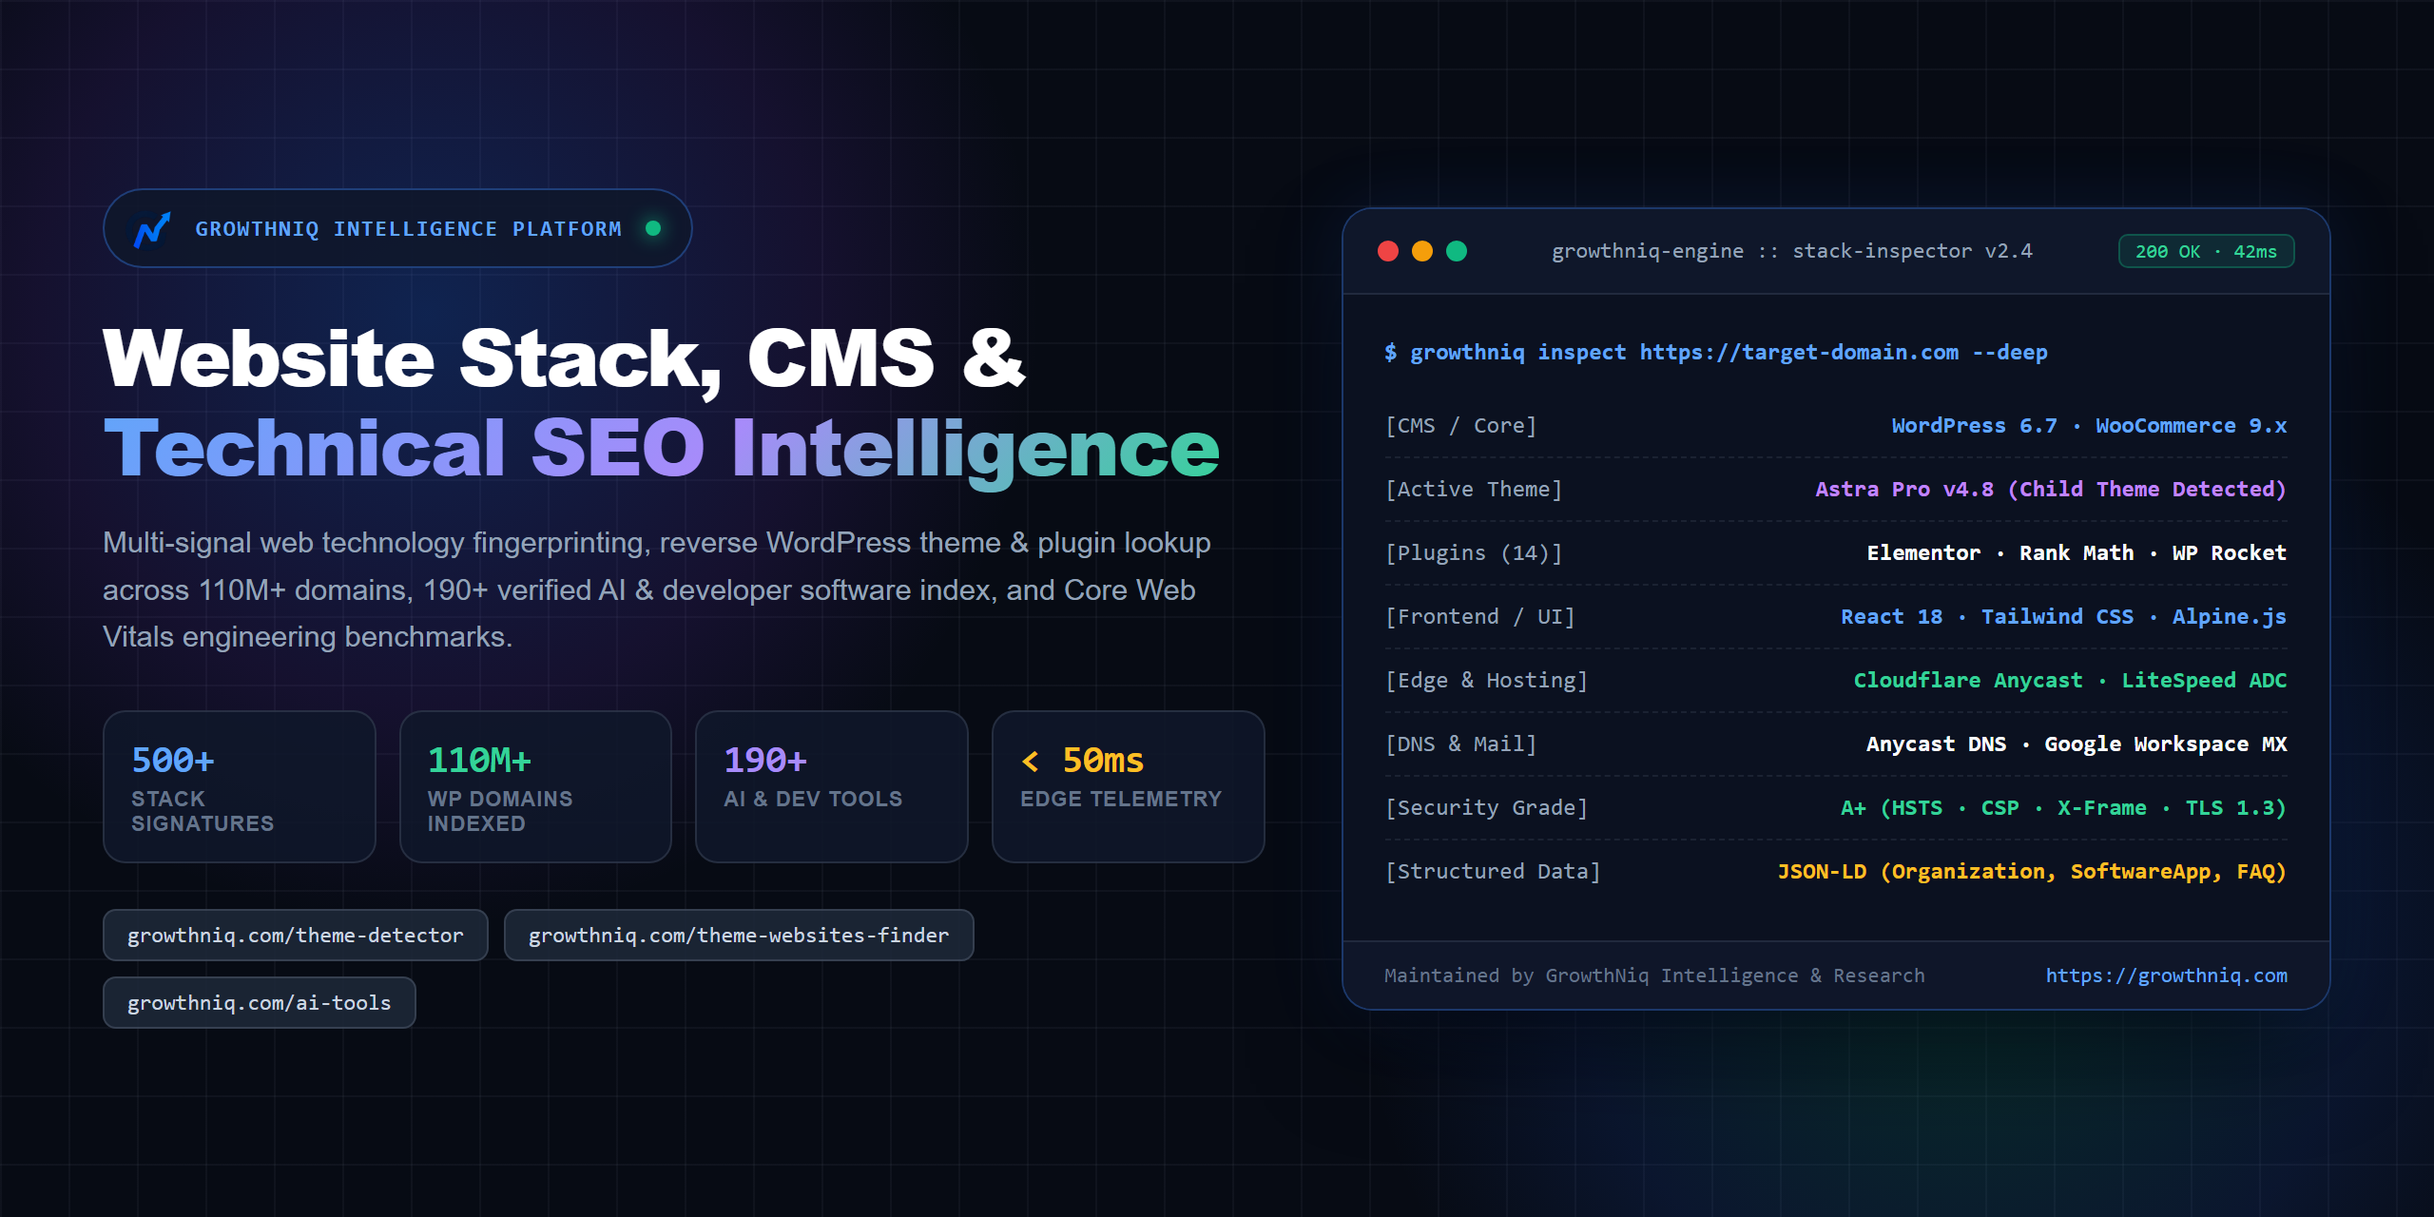
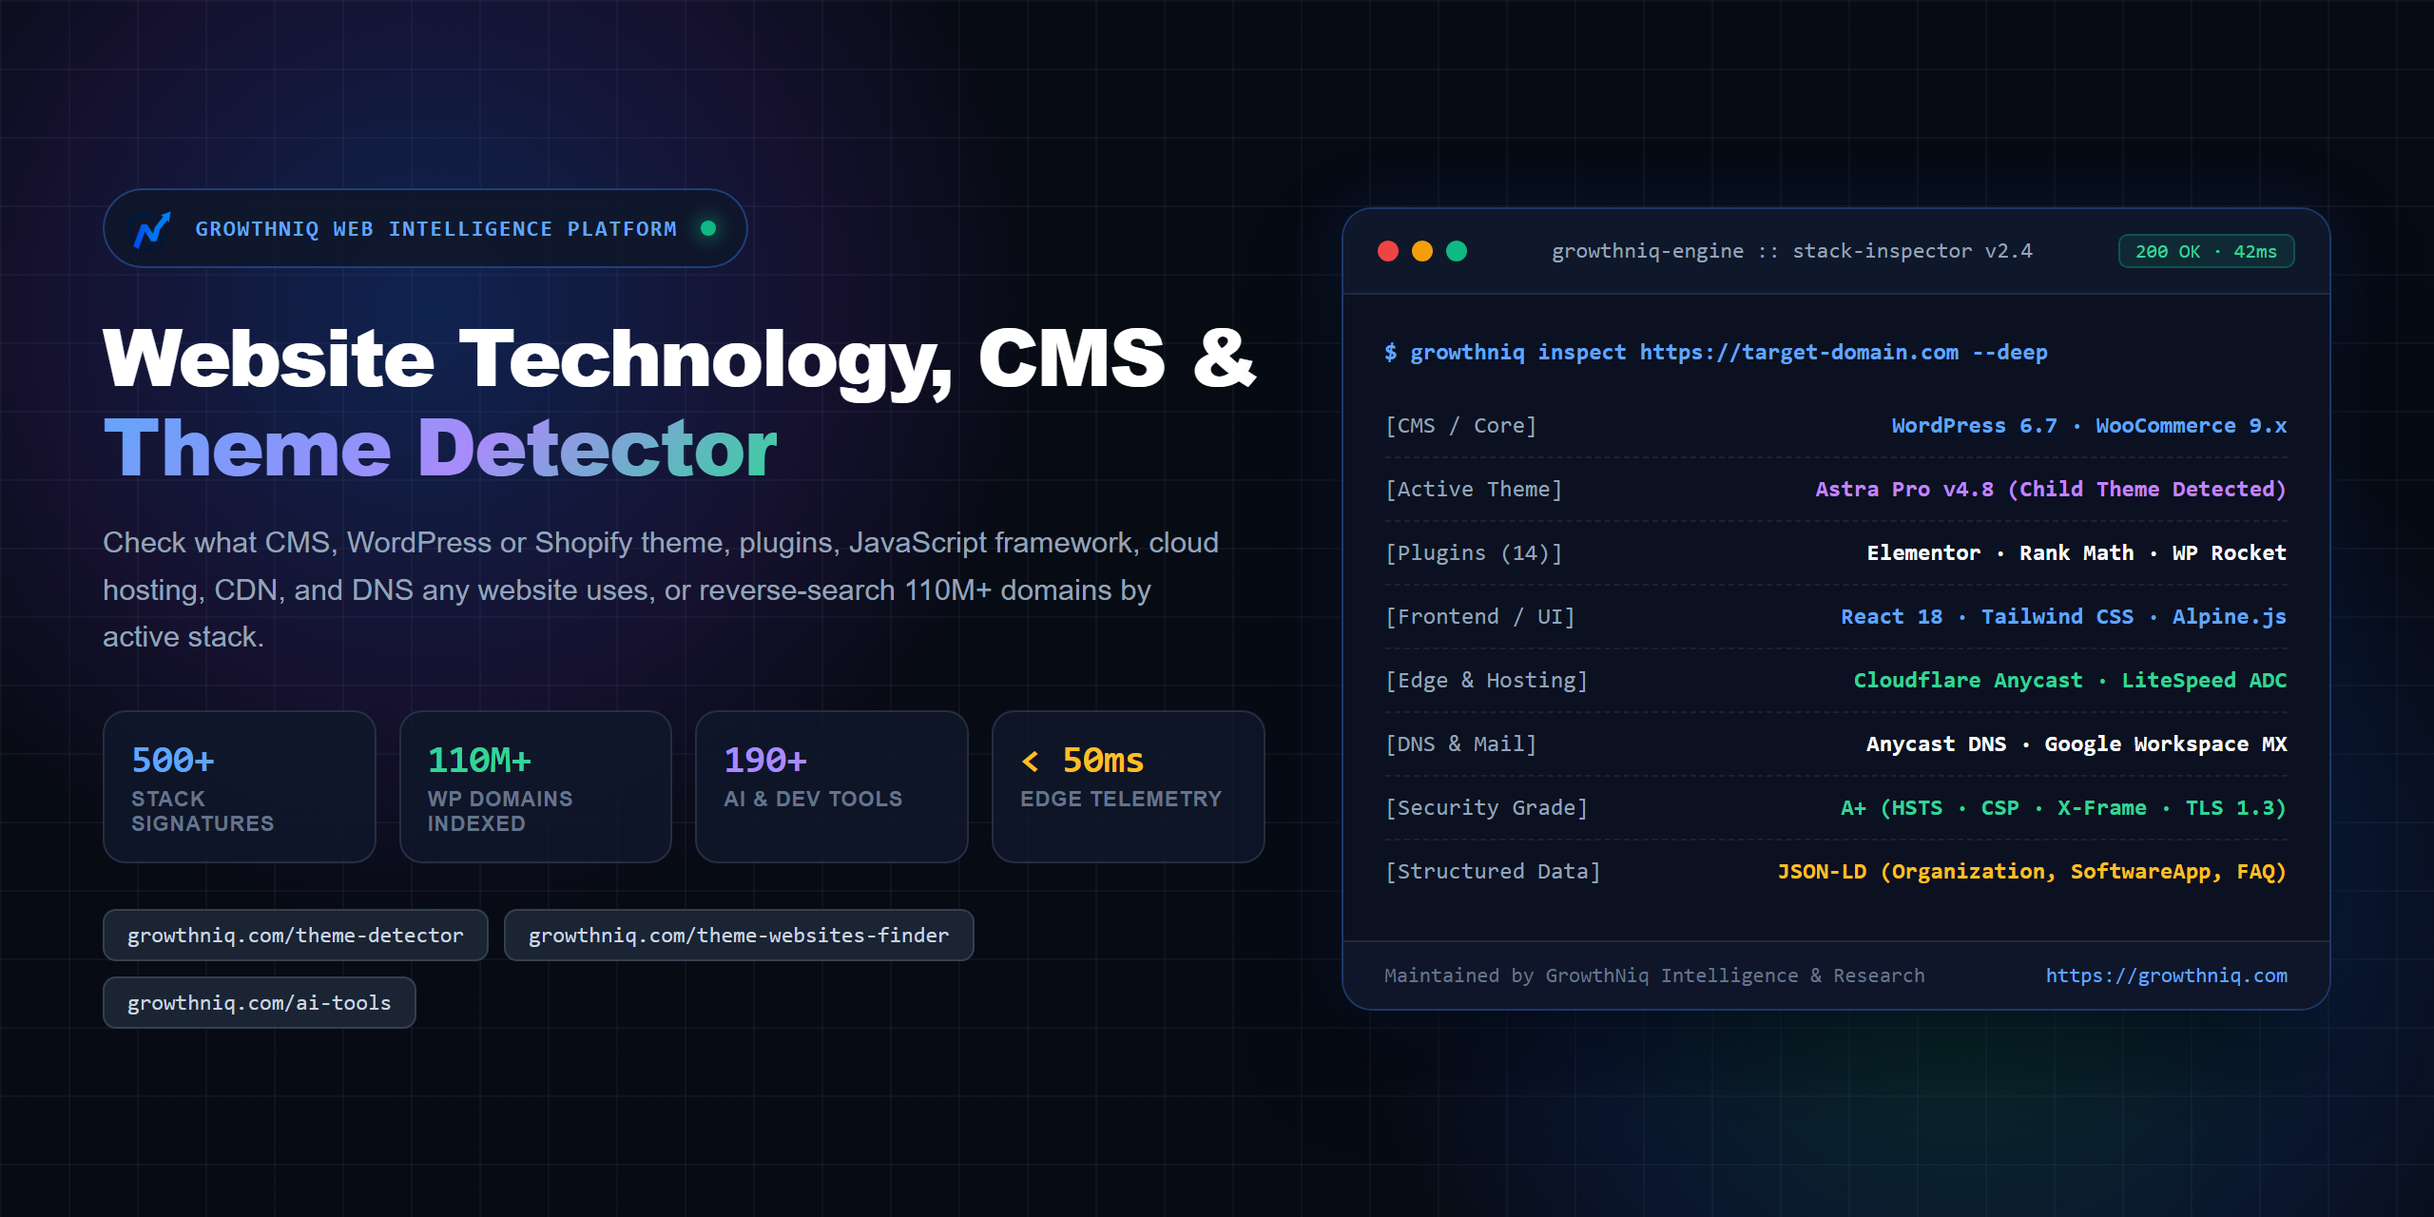
Rename to website-technology-detector and optimize for high-volume stack inspection queries

diff --git a/README.md b/README.md
@@ -1,47 +1,60 @@
 <p align="center">
-  <a href="https://growthniq.com/">
-    <img src="assets/growthniq-banner.png" alt="GrowthNiq - Website Theme, CMS & Technology Intelligence Platform" width="100%">
+  <a href="https://growthniq.com/theme-detector/">
+    <img src="assets/growthniq-banner.png" alt="Website Technology, CMS & Theme Detector - GrowthNiq Web Intelligence Platform" width="100%">
   </a>
 </p>
 
-<h1 align="center">GrowthNiq Web Stack Intelligence, WordPress Detector &amp; Technical SEO Suite</h1>
+<h1 align="center">Website Technology Detector, CMS &amp; Theme Checker &amp; Reverse Stack Lookup</h1>
 
 <p align="center">
-  <b>Multi-Signal Website Technology Fingerprinting · 110M+ WordPress Domain Index · 190+ Verified AI &amp; Dev Tools · Core Web Vitals Benchmarks</b><br>
+  <b>Check What CMS, WordPress or Shopify Theme, Plugins, JS Framework, Hosting, CDN &amp; DNS Any Website Uses · 110M+ Reverse Domain Index · 190+ AI Tools</b><br>
   <sub>Maintained by <a href="https://growthniq.com/about/">GrowthNiq Intelligence &amp; Research</a> · Lead Architect: <a href="https://muhammadabid.com/">Muhammad Abid</a> (<a href="https://github.com/V3n0mSh3ll">@V3n0mSh3ll</a>)</sub>
 </p>
 
 <p align="center">
-  <a href="https://growthniq.com/"><img src="https://img.shields.io/badge/Platform-GrowthNiq.com-2563EB?style=flat-square&logo=googlechrome&logoColor=white" alt="GrowthNiq Platform"></a>
+  <a href="https://growthniq.com/theme-detector/"><img src="https://img.shields.io/badge/Live_Scanner-Website_Technology_Detector-2563EB?style=flat-square&logo=googlechrome&logoColor=white" alt="Website Technology Detector"></a>
   <a href="https://growthniq.com/theme-detector/"><img src="https://img.shields.io/badge/Stack_Signatures-500%2B-00C853?style=flat-square&logo=wordpress&logoColor=white" alt="500+ Stack Signatures"></a>
-  <a href="https://growthniq.com/theme-websites-finder/"><img src="https://img.shields.io/badge/WP_Domain_Index-110M%2B-7C3AED?style=flat-square&logo=databricks&logoColor=white" alt="110M+ WP Domains Indexed"></a>
-  <a href="https://growthniq.com/ai-tools/"><img src="https://img.shields.io/badge/AI_%26_Dev_Directory-190%2B_Tools-0EA5E9?style=flat-square&logo=openai&logoColor=white" alt="190+ AI Tools"></a>
+  <a href="https://growthniq.com/theme-websites-finder/"><img src="https://img.shields.io/badge/Reverse_Lookup-110M%2B_WP_Domains-7C3AED?style=flat-square&logo=databricks&logoColor=white" alt="110M+ WP Domains Indexed"></a>
+  <a href="https://growthniq.com/ai-tools/"><img src="https://img.shields.io/badge/AI_%26_MCP_Directory-190%2B_Tools-0EA5E9?style=flat-square&logo=openai&logoColor=white" alt="190+ AI Tools"></a>
   <a href="https://growthniq.com/blog/"><img src="https://img.shields.io/badge/Core_Web_Vitals-LCP_%C2%B7_INP_%C2%B7_CLS-10B981?style=flat-square&logo=pagespeedinsights&logoColor=white" alt="Core Web Vitals"></a>
-  <a href="https://growthniq.com/schema-markup-explained/"><img src="https://img.shields.io/badge/Schema.org-JSON--LD_%40graph-F59E0B?style=flat-square&logo=json&logoColor=white" alt="Schema.org JSON-LD"></a>
   <a href="LICENSE"><img src="https://img.shields.io/badge/License-MIT-EAB308?style=flat-square" alt="MIT License"></a>
 </p>
 
 <p align="center">
-  <a href="https://growthniq.com/theme-detector/"><b>Live Stack &amp; CMS Detector</b></a> ·
-  <a href="https://growthniq.com/theme-websites-finder/"><b>110M+ WP Theme &amp; Plugin Finder</b></a> ·
-  <a href="https://growthniq.com/ai-tools/"><b>190+ AI Tools Directory</b></a> ·
-  <a href="https://growthniq.com/tools/"><b>All Web Utilities</b></a> ·
-  <a href="https://growthniq.com/blog/"><b>Engineering Research &amp; Guides</b></a>
+  <a href="https://growthniq.com/theme-detector/"><b>Website Technology &amp; CMS Detector</b></a> ·
+  <a href="https://growthniq.com/theme-websites-finder/"><b>Websites by WP Theme &amp; Plugin Finder</b></a> ·
+  <a href="https://growthniq.com/ai-tools/"><b>190+ AI Tools &amp; MCP Directory</b></a> ·
+  <a href="https://growthniq.com/tools/"><b>All Web Intelligence Tools</b></a> ·
+  <a href="https://growthniq.com/blog/"><b>Engineering Guides</b></a>
 </p>
 
 ---
 
-## Overview
+## What Is This Repository?
 
-**GrowthNiq** ([growthniq.com](https://growthniq.com/)) is a web technology intelligence platform, reverse WordPress domain lookup index, and technical SEO engineering reference.
+**`website-technology-detector`** is the official open-reference architecture, signature specification, and technical documentation suite for **[GrowthNiq](https://growthniq.com/)** — a real-time **Website Technology Detector, CMS Checker, WordPress &amp; Shopify Theme Detector, Reverse Domain Lookup Engine (110M+ Websites), and Verified AI Tools Directory**.
 
-Instead of relying on single-header guesses, GrowthNiq inspects live web properties across **6 telemetry layers**: DNS and ASN resolution, HTTP response and security headers, DOM and script bundle signatures, WordPress `style.css` parent/child theme heuristics, reverse domain market-share correlation, and Schema.org JSON-LD structured data graphs.
+Whether you want to check **what technology a website is built with**, inspect **what WordPress theme and plugins a site is using**, identify a **Shopify theme and installed apps**, find **who hosts a website**, or search **millions of live websites using a specific theme or plugin**, GrowthNiq executes multi-signal inspection in under 50ms with zero registration required.
 
 <p align="center">
   <a href="https://growthniq.com/tools/">
-    <img src="assets/platform-modules.png" alt="GrowthNiq Core Web Intelligence and Directory Modules" width="100%">
+    <img src="assets/platform-modules.png" alt="GrowthNiq Website Technology Detector, Reverse WP Domain Finder, and AI Tools Directory" width="100%">
   </a>
 </p>
+
+---
+
+## High-Intent Stack Inspection Use Cases
+
+| What You Want to Check | Live GrowthNiq Tool | What Gets Detected |
+| :--- | :--- | :--- |
+| **What technology is a website built with?** | **[Website Tech Stack Detector](https://growthniq.com/theme-detector/)** | 500+ signatures across CMS, JS frameworks (Next.js, React, Vue, Nuxt, Astro), server software, analytics, and payment gateways |
+| **What CMS is this website using?** | **[Website CMS Detector](https://growthniq.com/theme-detector/)** | WordPress, Shopify, Laravel, Magento, Adobe Experience Manager, Webflow, Wix, Squarespace, Drupal, Ghost, Django, Rails, ASP.NET |
+| **What WordPress theme &amp; plugins is that site using?** | **[WordPress Theme &amp; Plugin Detector](https://growthniq.com/theme-detector/)** | Active parent theme, custom child theme, version number, author URI, marketplace link, and active frontend/REST plugins |
+| **What Shopify theme &amp; apps is a store running?** | **[Shopify Theme &amp; App Detector](https://growthniq.com/theme-detector/)** | `Shopify.theme` name, Theme Store ID, OS 2.0 schema version, and installed storefront apps |
+| **Find websites using a WordPress theme or plugin** | **[Websites by WP Theme &amp; Plugin Finder](https://growthniq.com/theme-websites-finder/)** | Reverse-lookup 110M+ WordPress domains using Astra, Avada, Divi, GeneratePress, Elementor, WooCommerce, Rank Math, with CSV export |
+| **Who hosts this website &amp; what CDN/DNS is active?** | **[Hosting, CDN &amp; DNS Lookup](https://growthniq.com/theme-detector/)** | Cloud host, Anycast CDN edge (Cloudflare, Fastly, CloudFront, Vercel), LiteSpeed cache status, DNS nameservers, and MX email provider |
+| **Compare AI coding agents, LLMs &amp; MCP servers** | **[190+ AI Tools &amp; MCP Directory](https://growthniq.com/ai-tools/)** | 190+ verified AI tools, foundation models, coding IDEs (Cursor, Claude Code, Windsurf), MCP servers, and cloud GPU providers |
 
 ---
 
@@ -52,25 +65,25 @@ Instead of relying on single-header guesses, GrowthNiq inspects live web propert
 <td width="50%" valign="top">
 
 ### 1. [Website Theme, CMS &amp; Technology Detector](https://growthniq.com/theme-detector/)
-Deep real-time inspection engine that uncovers the complete technology stack behind any live URL in under 50ms:
+Browser-based alternative to Wappalyzer, BuiltWith, and WhatsThatTheme that inspects any live URL in real time:
 - **CMS &amp; Core Platform Detection**: WordPress, Shopify, Laravel, Magento, Adobe Experience Manager, Webflow, Wix, Squarespace, Drupal, Ghost, Django, Ruby on Rails, and ASP.NET.
 - **WordPress &amp; Shopify Theme Fingerprinting**: Detects active parent themes, custom child themes, version numbers, author URIs, and ThemeForest/WordPress.org marketplace metadata.
 - **Plugin &amp; App Detection**: Identifies active WordPress plugins, Shopify apps, e-commerce modules, and frontend script bundles.
-- **Infrastructure &amp; Security Telemetry**: Maps web hosting providers, Anycast CDN edges, DNS nameservers, MX email gateways, TTFB latency, HTTP security header grades (`HSTS`, `CSP`, `X-Frame-Options`), and JSON-LD `@graph` entities.
+- **Hosting, CDN, DNS &amp; Security Grade**: Maps cloud hosting providers, CDN edges, DNS nameservers, MX email gateways, TTFB latency, HTTP security header grades (`HSTS`, `CSP`, `X-Frame-Options`), and JSON-LD `@graph` entities.
 
-**Launch Tool**: [https://growthniq.com/theme-detector/](https://growthniq.com/theme-detector/)
+**Launch Detector**: [https://growthniq.com/theme-detector/](https://growthniq.com/theme-detector/)
 
 </td>
 <td width="50%" valign="top">
 
 ### 2. [Websites by WordPress Theme &amp; Plugin Finder](https://growthniq.com/theme-websites-finder/)
 Reverse technology search engine indexing **110M+ WordPress domains** by active theme or plugin signature:
-- **Reverse Keyword &amp; Marketplace Lookup**: Search any WordPress theme or plugin (e.g., *Astra*, *Avada*, *Divi*, *GeneratePress*, *Hello Elementor*, *Elementor*, *WooCommerce*, *Rank Math*, *WP Rocket*).
+- **Reverse Keyword &amp; Marketplace Lookup**: Search any WordPress theme or plugin (*Astra*, *Avada*, *Divi*, *GeneratePress*, *Hello Elementor*, *Elementor*, *WooCommerce*, *Rank Math*, *WP Rocket*).
 - **Direct URL Extraction**: Paste any ThemeForest or WordPress.org theme/plugin URL to inspect live production deployments.
 - **Market Telemetry &amp; Adoption Metrics**: View verified active website counts, historical download telemetry, star ratings, and official license links.
 - **Instant CSV Dataset Export**: Download verified live domain lists for competitive market research and stack benchmarking.
 
-**Launch Tool**: [https://growthniq.com/theme-websites-finder/](https://growthniq.com/theme-websites-finder/)
+**Launch Reverse Finder**: [https://growthniq.com/theme-websites-finder/](https://growthniq.com/theme-websites-finder/)
 
 </td>
 </tr>
@@ -84,7 +97,7 @@ Curated software intelligence directory tracking **190+ verified AI platforms** 
 - **MCP Servers &amp; Agent Frameworks**: Model Context Protocol (MCP) integrations, LangChain, LlamaIndex, CrewAI, AutoGen, and vector databases.
 - **SEO, Research &amp; Content Systems**: Verified pricing models, API availability, context window telemetry, and side-by-side capability ratings.
 
-**Explore Directory**: [https://growthniq.com/ai-tools/](https://growthniq.com/ai-tools/)
+**Explore AI Directory**: [https://growthniq.com/ai-tools/](https://growthniq.com/ai-tools/)
 
 </td>
 <td width="50%" valign="top">
@@ -95,7 +108,7 @@ Centralized command hub for web stack inspection, software discovery, and engine
 - **[Suggest a Tool or Signature](https://growthniq.com/suggest-a-tool/)**: Submit new CMS signatures, WordPress plugins, or AI developer platforms for engineering verification.
 - **[HTML Sitemap &amp; Architecture Index](https://growthniq.com/sitemap/)**: Complete hierarchical index of all tools, category hubs, and technical documentation.
 
-**Open Hub**: [https://growthniq.com/tools/](https://growthniq.com/tools/)
+**Open Intelligence Hub**: [https://growthniq.com/tools/](https://growthniq.com/tools/)
 
 </td>
 </tr>
@@ -149,7 +162,7 @@ Text Domain:  astra-child
 ```
 
 - When the `Template:` directive is present, GrowthNiq resolves both the active **Child Theme** (`astra-child`) and the underlying **Parent Framework** (`astra`) by probing `/wp-content/themes/{Template}/style.css`.
-- For deeper manual and automated detection techniques, read: **[How to Check What WordPress Theme and Plugins a Website Is Using](https://growthniq.com/how-to-detect-wordpress-theme-and-plugins/)**.
+- Read the complete technical breakdown: **[How to Check What WordPress Theme and Plugins a Website Is Using](https://growthniq.com/how-to-detect-wordpress-theme-and-plugins/)**.
 
 ### 2. High-Signal HTTP &amp; DOM Stack Signatures
 
@@ -199,50 +212,18 @@ Full production audit checklist available in [`checklists/technical-seo-cwv-chec
 | **CLS** (Cumulative Layout Shift) | `<= 0.10` | **`0.000`** | Explicit `width`/`height` attributes, CSS `aspect-ratio` containers, metric-matched webfont fallbacks | [INP &amp; CLS Optimization Guide](https://growthniq.com/inp-cls-guide/) |
 | **JSON-LD Entity Graph** | Valid Syntax | **Linked `@graph`** | Connected `Organization`, `WebSite`, `SoftwareApplication`, `TechArticle`, `FAQPage`, `BreadcrumbList` | [Schema Markup Explained](https://growthniq.com/schema-markup-explained/) |
 
-### Production JSON-LD `@graph` Blueprint
-
-```json
-{
-  "@context": "https://schema.org",
-  "@graph": [
-    {
-      "@type": "Organization",
-      "@id": "https://growthniq.com/#organization",
-      "name": "GrowthNiq",
-      "url": "https://growthniq.com/",
-      "founder": {
-        "@type": "Person",
-        "name": "Muhammad Abid",
-        "url": "https://muhammadabid.com/"
-      }
-    },
-    {
-      "@type": "WebApplication",
-      "@id": "https://growthniq.com/theme-detector/#app",
-      "name": "GrowthNiq Website Theme, CMS & Technology Detector",
-      "url": "https://growthniq.com/theme-detector/",
-      "applicationCategory": "DeveloperApplication",
-      "operatingSystem": "All",
-      "publisher": {
-        "@id": "https://growthniq.com/#organization"
-      }
-    }
-  ]
-}
-```
-
 ---
 
-## Complete Engineering Guides &amp; Technical SEO Research Index
+## Complete Engineering Guides &amp; Technical Research Index
 
 All guides are published and maintained by the engineering and editorial team at **[GrowthNiq Blog](https://growthniq.com/blog/)**:
 
-### 1. Technical SEO, Stack Inspection &amp; Core Web Vitals
+### 1. Stack Detection, Technical SEO &amp; Core Web Vitals
 
 | Technical Guide | Core Focus |
 | :--- | :--- |
-| **[The Complete Technical SEO Audit Checklist for WordPress Sites (15-Step Guide)](https://growthniq.com/technical-seo-audit-checklist-2026/)** | Crawl budget, canonicalization, XML sitemaps, `robots.txt`, HTTP headers, and indexation diagnostics |
 | **[How to Check What WordPress Theme and Plugins a Website Is Using](https://growthniq.com/how-to-detect-wordpress-theme-and-plugins/)** | Inspecting `style.css` headers, child themes, asset handles, REST API namespaces, and DOM fingerprints |
+| **[The Complete Technical SEO Audit Checklist for WordPress Sites (15-Step Guide)](https://growthniq.com/technical-seo-audit-checklist-2026/)** | Crawl budget, canonicalization, XML sitemaps, `robots.txt`, HTTP headers, and indexation diagnostics |
 | **[How to Fix a Slow LCP Score in WordPress](https://growthniq.com/fix-lcp-score/)** | Eliminating render-blocking assets, optimizing TTFB, preloading LCP elements, and edge caching |
 | **[Core Web Vitals: INP &amp; CLS Optimization Guide](https://growthniq.com/inp-cls-guide/)** | Main-thread task yielding, JavaScript deferral, layout stability, and zero-CLS CSS containment |
 | **[How to Speed Up a WordPress Website (Complete Performance Guide)](https://growthniq.com/speed-up-wordpress-website/)** | LiteSpeed/Cloudflare caching, database query optimization, object caching, and asset minification |
@@ -312,9 +293,9 @@ All guides are published and maintained by the engineering and editorial team at
 ## Repository Structure
 
 ```text
-wordpress-seo-tools/
+website-technology-detector/
 ├── assets/
-│   ├── growthniq-banner.png           # Flagship platform hero & live terminal overview
+│   ├── growthniq-banner.png           # Website Technology, CMS & Theme Detector hero banner
 │   ├── platform-modules.png           # 3-module visual showcase (/theme-detector, /theme-websites-finder, /ai-tools)
 │   ├── detection-architecture.png     # 6-stage multi-signal stack & SEO fingerprinting pipeline
 │   └── cwv-seo-benchmarks.png         # Core Web Vitals (LCP, INP, CLS) & JSON-LD production targets
